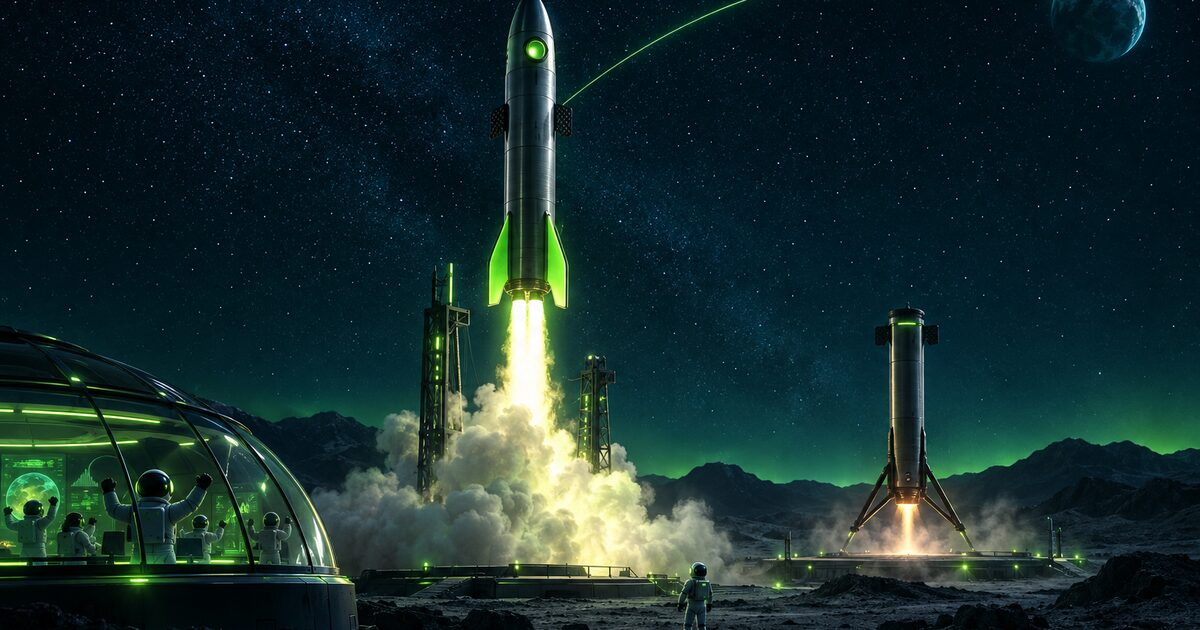
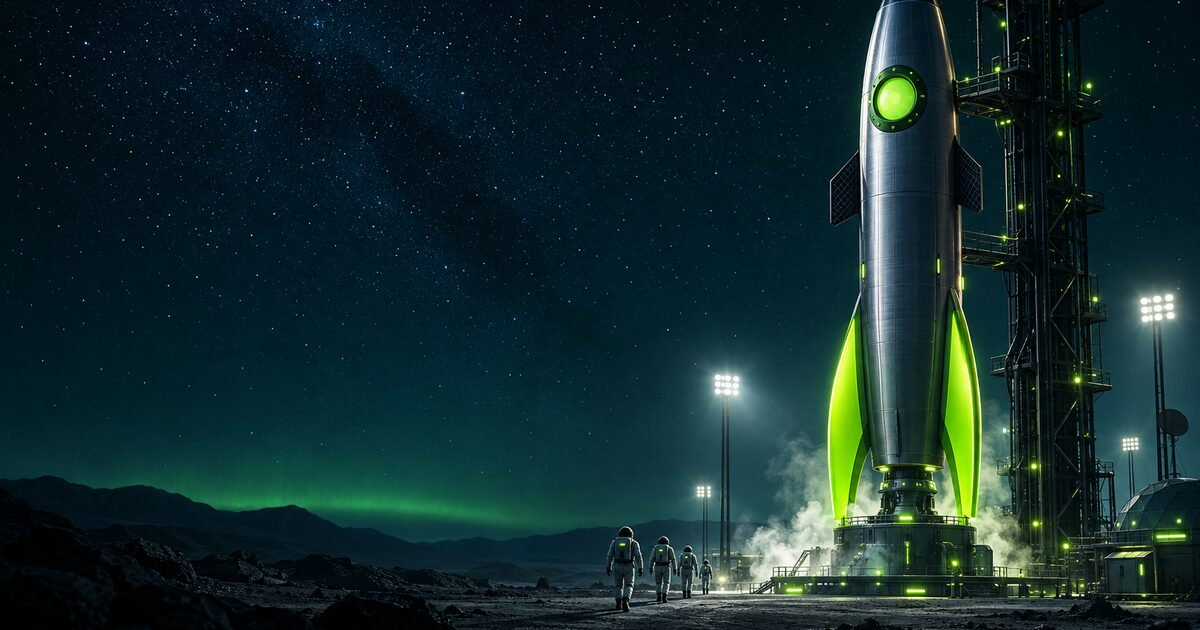
feat(presentations): full-bleed cover for the T-Minus-15 Workshops deck
The cover now uses the house full-bleed layout (cover-hero, cover-scrim,
cover-copy) like the other decks, over new full-frame art: the rocket ready
on the pad on the right, dark sky and ground on the left for the headline.
The book line stays as a compact row under the lead.

- Drop the split-cover styles and the portrait art they used.
- verify-presentations: the art-panel exclusion is now just .ws-art.
- Gallery thumbnail and Open Graph image regenerated from the new cover;
  decks.json points at it.

diff --git a/public/presentations/tminus15-workshops.html b/public/presentations/tminus15-workshops.html
@@ -26,7 +26,7 @@
     <style>
       /* Deck-specific styles — everything shared lives in knowall-deck.css */
       :root {
-        --deck-cover: url('images/tminus15-workshops/m6-operate.jpg');
+        --deck-cover: url('images/tminus15-workshops/cover.jpg');
         --deck-hero: url('images/tminus15-workshops/close-liftoff.jpg');
         --ws-panel: 860px;
       }
@@ -59,61 +59,18 @@
         );
       }
 
-      /* --- Cover: the art in a left-hand panel, the copy beside it ---------- */
-      .tm-cover-art {
-        position: absolute;
-        inset: 0 auto 0 0;
-        width: 720px;
-        background: url('images/tminus15-workshops/cover-portrait.jpg') center / cover no-repeat;
-      }
-
-      .tm-cover-art::after {
-        content: '';
-        position: absolute;
-        inset: 0 -1px 0 auto;
-        width: 220px;
-        background: linear-gradient(90deg, transparent, var(--charcoal));
-      }
-
-      .tm-cover-copy {
-        position: absolute;
-        left: 820px;
-        right: 96px;
-        top: 230px;
-        bottom: calc(60px + var(--ctl-band));
-        display: flex;
-        flex-direction: column;
-        justify-content: center;
-        gap: 34px;
-      }
-
-      .tm-cover-copy h1 {
-        font-size: 112px;
-        line-height: 1.04;
-        color: #ffffff;
-      }
-
-      .tm-cover-copy h1 em {
-        font-style: italic;
-        color: var(--lime);
-      }
-
-      .tm-cover-copy .lead {
-        font-size: 31px;
-        color: var(--mist);
-      }
-
+      /* --- Cover: the house full-bleed cover, plus the book it's built on --- */
       .tm-book {
         display: flex;
         align-items: center;
-        gap: 34px;
-        margin-top: 10px;
-        padding-top: 34px;
-        border-top: 1px solid var(--line);
+        gap: 28px;
+        max-width: 1150px;
+        padding-top: 30px;
+        border-top: 1px solid rgba(255, 255, 255, 0.14);
       }
 
       .tm-book img {
-        height: 190px;
+        height: 120px;
         width: auto;
         border-radius: 6px;
         box-shadow: var(--shadow-card);
@@ -327,12 +284,13 @@
         <!-- Slide 1: Title -->
         <section role="region" aria-label="Slide 1 of 14: T-Minus-15 Workshops">
           <div
-            class="tm-cover-art"
+            class="cover-hero"
             role="img"
-            aria-label="A sleek steel rocket with glowing lime-green fins on a lunar launch pad at night, a small astronaut looking up at it"
+            aria-label="A steel rocket with glowing lime-green fins standing ready on a lunar launch pad at night beside its launch tower, a small crew of astronauts walking towards it"
           ></div>
+          <div class="cover-scrim" aria-hidden="true"></div>
           <img class="logo-light" src="/images/logo.png" alt="KnowAll.ai" />
-          <div class="tm-cover-copy">
+          <div class="cover-copy">
             <p class="kicker">KnowAll AI &middot; T-Minus-15 Workshops</p>
             <h1>Build your own<br /><em>elite delivery team</em></h1>
             <p class="lead">

diff --git a/presentations-src/tminus15-workshops.html b/presentations-src/tminus15-workshops.html
@@ -2,7 +2,7 @@
     <style>
       /* Deck-specific styles — everything shared lives in knowall-deck.css */
       :root {
-        --deck-cover: url('images/tminus15-workshops/m6-operate.jpg');
+        --deck-cover: url('images/tminus15-workshops/cover.jpg');
         --deck-hero: url('images/tminus15-workshops/close-liftoff.jpg');
         --ws-panel: 860px;
       }
@@ -35,61 +35,18 @@
         );
       }
 
-      /* --- Cover: the art in a left-hand panel, the copy beside it ---------- */
-      .tm-cover-art {
-        position: absolute;
-        inset: 0 auto 0 0;
-        width: 720px;
-        background: url('images/tminus15-workshops/cover-portrait.jpg') center / cover no-repeat;
-      }
-
-      .tm-cover-art::after {
-        content: '';
-        position: absolute;
-        inset: 0 -1px 0 auto;
-        width: 220px;
-        background: linear-gradient(90deg, transparent, var(--charcoal));
-      }
-
-      .tm-cover-copy {
-        position: absolute;
-        left: 820px;
-        right: 96px;
-        top: 230px;
-        bottom: calc(60px + var(--ctl-band));
-        display: flex;
-        flex-direction: column;
-        justify-content: center;
-        gap: 34px;
-      }
-
-      .tm-cover-copy h1 {
-        font-size: 112px;
-        line-height: 1.04;
-        color: #ffffff;
-      }
-
-      .tm-cover-copy h1 em {
-        font-style: italic;
-        color: var(--lime);
-      }
-
-      .tm-cover-copy .lead {
-        font-size: 31px;
-        color: var(--mist);
-      }
-
+      /* --- Cover: the house full-bleed cover, plus the book it's built on --- */
       .tm-book {
         display: flex;
         align-items: center;
-        gap: 34px;
-        margin-top: 10px;
-        padding-top: 34px;
-        border-top: 1px solid var(--line);
+        gap: 28px;
+        max-width: 1150px;
+        padding-top: 30px;
+        border-top: 1px solid rgba(255, 255, 255, 0.14);
       }
 
       .tm-book img {
-        height: 190px;
+        height: 120px;
         width: auto;
         border-radius: 6px;
         box-shadow: var(--shadow-card);
@@ -303,12 +260,13 @@
         <!-- Slide 1: Title -->
         <section role="region" aria-label="Slide 1 of 14: T-Minus-15 Workshops">
           <div
-            class="tm-cover-art"
+            class="cover-hero"
             role="img"
-            aria-label="A sleek steel rocket with glowing lime-green fins on a lunar launch pad at night, a small astronaut looking up at it"
+            aria-label="A steel rocket with glowing lime-green fins standing ready on a lunar launch pad at night beside its launch tower, a small crew of astronauts walking towards it"
           ></div>
+          <div class="cover-scrim" aria-hidden="true"></div>
           <img class="logo-light" src="/images/logo.png" alt="KnowAll.ai" />
-          <div class="tm-cover-copy">
+          <div class="cover-copy">
             <p class="kicker">KnowAll AI &middot; T-Minus-15 Workshops</p>
             <h1>Build your own<br /><em>elite delivery team</em></h1>
             <p class="lead">
